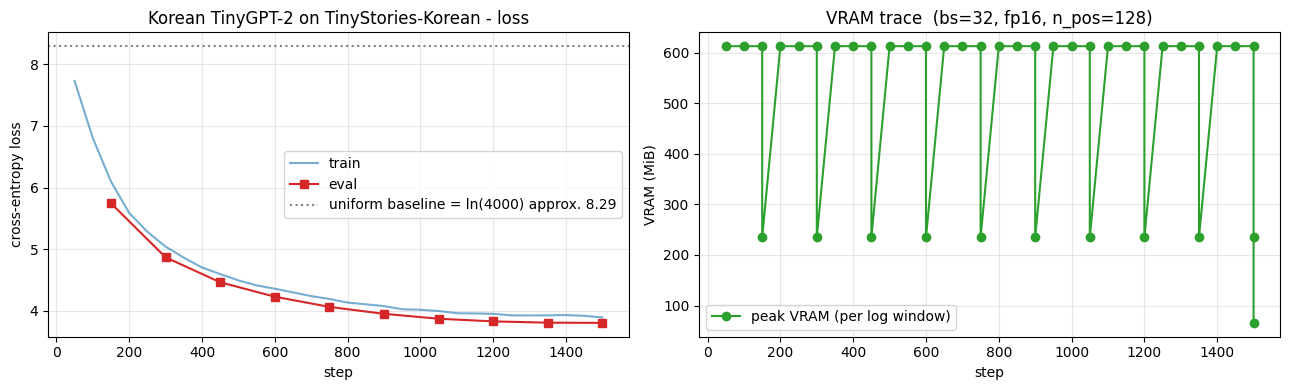
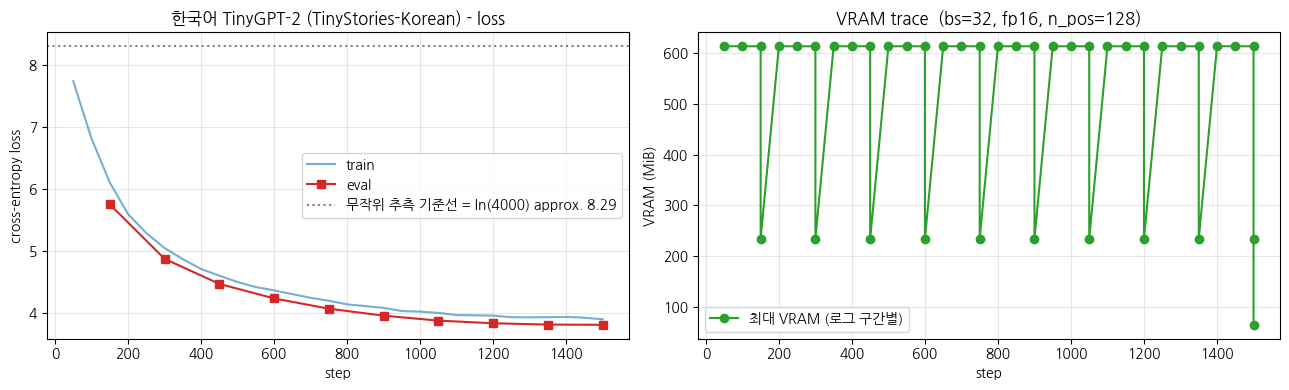
Ch 26 WikiDocs 변환 — executed 한글 plot 재생성
Claude-Session: https://claude.ai/code/session_01WacYaM89hZLnSLh4o6sjrA

diff --git a/pages/26-ko_tiny_gpt-practice.md b/pages/26-ko_tiny_gpt-practice.md
@@ -9,13 +9,14 @@
 **▶ 실행 결과**
 
 ```text
-   ━━━━━━━━━━━━━━━━━━━━━━━━━━━━━━━━━━━━━━━━ 11.2/11.2 MB 127.0 MB/s eta 0:00:00
-   ━━━━━━━━━━━━━━━━━━━━━━━━━━━━━━━━━━━━━━━━ 555.1/555.1 kB 49.9 MB/s eta 0:00:00
-   ━━━━━━━━━━━━━━━━━━━━━━━━━━━━━━━━━━━━━━━━ 389.2/389.2 kB 42.6 MB/s eta 0:00:00
-   ━━━━━━━━━━━━━━━━━━━━━━━━━━━━━━━━━━━━━━━━ 0.0/48.9 MB ? eta -:--:--
-   ━━━━━━━━━━━━━━━━━━━━━━━━━━━━━━━━━━━━━━━╸ 48.9/48.9 MB 149.2 MB/s eta 0:00:01
-   ━━━━━━━━━━━━━━━━━━━━━━━━━━━━━━━━━━━━━━━╸ 48.9/48.9 MB 149.2 MB/s eta 0:00:01
-   ━━━━━━━━━━━━━━━━━━━━━━━━━━━━━━━━━━━━━━━━ 48.9/48.9 MB 17.1 MB/s eta 0:00:00
+   ━━━━━━━━━━━━━━━━━━━━━━━━━━━━━━━━━━━━━━━╸ 11.1/11.2 MB 174.1 MB/s eta 0:00:01
+   ━━━━━━━━━━━━━━━━━━━━━━━━━━━━━━━━━━━━━━━━ 11.2/11.2 MB 97.4 MB/s eta 0:00:00
+   ━━━━━━━━━━━━━━━━━━━━━━━━━━━━━━━━━━━━━━━━ 555.1/555.1 kB 42.8 MB/s eta 0:00:00
+   ━━━━━━━━━━━━━━━━━━━━━━━━━━━━━━━━━━━━━━━━ 389.2/389.2 kB 34.4 MB/s eta 0:00:00
+   ━━━━━━━━━━━━━━━━━━━━━━━╺━━━━━━━━━━━━━━━━ 28.6/48.9 MB 168.7 MB/s eta 0:00:01
+   ━━━━━━━━━━━━━━━━━━━━━━━━━━━━━━━━━━━━━━━╸ 48.9/48.9 MB 196.9 MB/s eta 0:00:01
+   ━━━━━━━━━━━━━━━━━━━━━━━━━━━━━━━━━━━━━━━╸ 48.9/48.9 MB 196.9 MB/s eta 0:00:01
+   ━━━━━━━━━━━━━━━━━━━━━━━━━━━━━━━━━━━━━━━━ 48.9/48.9 MB 18.0 MB/s eta 0:00:00
 ```
 
 ```python
@@ -57,6 +58,15 @@ random.seed(SEED)
 # fp16 은 CUDA 에서만 (MPS 는 미지원, CPU 는 의미 없음)
 USE_FP16 = (device.type == "cuda")
 print(f"use fp16   : {USE_FP16}")
+
+# matplotlib 한글 폰트 (Colab — NanumGothic). plot 의 한국어가 □ 로 깨지지 않게.
+import matplotlib.pyplot as plt, matplotlib.font_manager as fm, subprocess, os
+_fp = "/usr/share/fonts/truetype/nanum/NanumGothic.ttf"
+if not os.path.exists(_fp):
+    subprocess.run("apt-get -qq -y install fonts-nanum", shell=True)
+fm.fontManager.addfont(_fp)
+plt.rcParams["font.family"] = "NanumGothic"
+plt.rcParams["axes.unicode_minus"] = False
 ```
 
 **▶ 실행 결과**
@@ -67,8 +77,6 @@ VRAM total : 14.56 GiB
 torch      : 2.11.0+cu128
 use fp16   : True
 ```
-
-TinyStories-Korean 데이터셋은 한 줄에 한 문장씩, story 경계는 `<|endoftext|>` 마커로 표시되어 있습니다. 아래 함수는 스트리밍으로 줄을 읽어 마커를 만날 때마다 누적한 줄을 하나의 story로 이어 붙입니다. 한국어 동화 30,000편을 복원해 학습 코퍼스를 만듭니다.
 
 ```python
 from datasets import load_dataset
@@ -123,7 +131,7 @@ print(raw_train[0]["text"][:400])
 **▶ 실행 결과**
 
 ```text
-rebuilt stories: train=30,000, val=500  (28.7s)
+rebuilt stories: train=30,000, val=500  (19.1s)
 train: Dataset({
     features: ['text'],
     num_rows: 30000
@@ -138,12 +146,6 @@ story length (chars): mean=468, median=420, max=2754
 === sample story ===
 한때 벤이라는 이름의 어린 소년이 있었어요. 벤은 주변 세계를 탐험하는 것을 좋아했답니다. 그는 가게에 전시되어 있던 아름다운 꽃병들 같은 멋진 것들을 많이 봤어요. 어느 날, 벤은 가게를 거닐다가 정말 특별한 꽃병을 발견했죠. 벤은 그 꽃병을 보고 …(뒤 240자 생략)
 ```
-
-**결과 해석**
-
-train 30,000편, validation 500편의 story가 약 29초 만에 복원되었습니다. story 평균 길이는 468자(중앙값 420자)로, 한 편이 짧은 동화 분량이라 작은 GPT로도 충분히 패턴을 학습할 수 있습니다.
-
-이제 이 한국어 코퍼스로 토크나이저를 직접 학습합니다. 영어 gpt2처럼 byte 단위에서 시작하는 BBPE(byte-level BPE)를 쓰되, 한국어는 한 글자가 여러 byte라 vocab을 4000으로 약간 키웁니다. `<|endoftext|>`를 유일한 special token으로 두어 bos/eos/pad를 모두 겸하게 합니다.
 
 ```python
 from tokenizers import Tokenizer
@@ -192,7 +194,7 @@ print(f"eos_token  : {tokenizer.eos_token}  id={tokenizer.eos_token_id}")
 **▶ 실행 결과**
 
 ```text
-BBPE training done: 9.2s, vocab=4000
+BBPE training done: 9.9s, vocab=4000
 
 === encode/decode demo (Korean) ===
 input      : 옛날 옛날에 작은 토끼가 숲으로 갔어요.
@@ -202,12 +204,6 @@ decode     : 옛날 옛날에 작은 토끼가 숲으로 갔어요.
 vocab_size : 4000
 eos_token  : <|endoftext|>  id=0
 ```
-
-**결과 해석**
-
-BBPE 학습이 9초 만에 끝나 vocab 4000을 확보했습니다. "옛날 옛날에 작은 토끼가 숲으로 갔어요."가 8개 토큰으로 쪼개지고 decode 시 원문이 그대로 복원되어, 우리 토크나이저가 한국어를 의미 단위에 가깝게 다룬다는 것을 확인할 수 있습니다.
-
-같은 한국어 문장을 영어 gpt2의 BPE 토크나이저와 우리 BBPE로 각각 토큰화해 개수를 비교합니다. gpt2는 한국어 학습 데이터를 보지 못했으므로 한글을 byte 조각으로 잘게 쪼갭니다. 두 토크나이저의 토큰 수 비율을 보면 한국어 전용 토크나이저의 효율 이득이 드러납니다.
 
 ```python
 from transformers import AutoTokenizer
@@ -253,12 +249,6 @@ Korean tokenization: English gpt2 BPE vs our Korean BBPE
 => gpt2 BPE splits Korean into many byte fragments (more tokens).
    Our Korean BBPE keeps meaningful units (fewer tokens).
 ```
-
-**결과 해석**
-
-영어 gpt2 BPE는 같은 한국어 문장을 우리 BBPE보다 6-7배 많은 토큰으로 쪼갭니다. 한국어 코퍼스로 직접 학습한 토크나이저가 문맥 길이를 절약하고 학습을 효율화한다는 점이 분명히 드러납니다.
-
-다음으로 학습용 입력을 만듭니다. 각 story를 토큰화한 뒤 끝에 EOS를 붙여 경계를 표시하고, 모든 토큰을 한 줄로 이어붙여 `BLOCK_SIZE=128` 단위로 잘라 고정 길이 chunk로 만듭니다. CausalLM 사전학습의 표준 전처리입니다.
 
 ```python
 BLOCK_SIZE = 128
@@ -313,12 +303,6 @@ first chunk decode (first 200 chars):
 한때 벤이라는 이름의 어린 소년이 있었어요. 벤은 주변 세계를 탐험하는 것을 좋아했답니다. 그는 가게에 전시되어 있던 아름다운 꽃병들 같은 멋진 것들을 많이 봤어요. 어느 날, 벤은 가게를 거닐다가 정말 특별한 꽃병을 발견했죠. 벤은 그 꽃병을 보고 …(뒤 60자 생략)
 ```
 
-**결과 해석**
-
-30,000편을 이어붙여 128 토큰 chunk 45,845개(약 5.87M 토큰)가 만들어졌습니다. 첫 chunk를 decode하면 원본 story가 그대로 이어져, 손실 없이 chunk로 재배열되었음을 확인할 수 있습니다.
-
-CausalLM이 한 step에서 얼마나 많은 토큰을 학습 신호로 쓰는지 직접 확인합니다. `DataCollatorForLanguageModeling(mlm=False)`은 labels를 input_ids와 동일하게 복제하므로, MLM처럼 대부분을 `-100`으로 가리지 않습니다. `-100` 자리와 학습 신호 자리의 비율을 세어 MLM(Ch 20/22)과 대비합니다.
-
 ```python
 from transformers import DataCollatorForLanguageModeling
 
@@ -367,12 +351,6 @@ total positions      : 256
 (input_ids == labels) positions: 255/256  - clone as-is
 ```
 
-**결과 해석**
-
-전체 256개 자리 중 99.61%가 학습 신호이고 `-100`은 단 1개(0.39%)뿐입니다. 15%만 가리는 MLM과 비교하면 같은 step에서 토큰당 학습 효율이 5-6배 높아, GPT 사전학습이 데이터를 훨씬 빽빽하게 활용함을 보여줍니다.
-
-이제 모델을 정의합니다. `n_embd=256`, `n_layer=4`, `n_head=4`의 작은 GPT-2를 한국어 vocab 4000에 맞춰 scratch부터 만듭니다. 사전학습 가중치 없이 무작위 초기화 상태이며, 학습 전후 generation을 비교하기 위해 미리 GPU로 올려둡니다.
-
 ```python
 from transformers import GPT2Config, GPT2LMHeadModel
 
@@ -410,12 +388,6 @@ model: GPT2LMHeadModel
   - body : GPT2Model  (Decoder, causal attention)
   - head : Linear(in=256, out=4000)
 ```
-
-**결과 해석**
-
-파라미터는 약 4.22M(fp32 기준 16MiB)으로 매우 가볍습니다. weight tying이 켜져 입력 임베딩(wte)과 출력 head가 가중치를 공유하며, body는 causal attention의 Decoder임을 확인할 수 있습니다.
-
-학습 전 무작위 가중치 상태에서 먼저 generation을 돌려봅니다. 같은 한국어 prompt 4개에 대해 학습 후 출력과 나란히 비교할 기준선을 만듭니다. 재현성을 위해 학습 전후 동일한 seed를 사용합니다.
 
 ```python
 PROMPTS = [
@@ -469,12 +441,6 @@ prompt: 큰 개가
 prompt: 어느 날,
 어느 날, 고양이는 퍼즐�리를 안아주 의사았을�� 완벽한고마워 � 플러피고마워 싸 안아주 거실 영리 페 그녀의 아이스크림 접�� 레 의자에으며치를 돕이건 자신을갔습니다 할머니 구 아이스크림계프는 엄마님은 레 거실 악 거실 파란 기뻤습니다 운� 친구들에 …(뒤 40자 생략)
 ```
-
-**결과 해석**
-
-학습 전 출력은 한국어 단어 조각이 무작위로 나열되어 문장이 전혀 성립하지 않고, 깨진 글자(�)도 섞여 있습니다. 무작위 초기화 모델은 토큰을 거의 균등하게 뽑는다는 것을 눈으로 확인할 수 있습니다.
-
-이제 본격적으로 사전학습을 돌립니다. T4 30분 룰 안에서 `max_steps=1500`, `batch_size=32`, cosine 스케줄에 fp16으로 학습합니다. scratch 사전학습 표준인 lr 5e-4와 Adam beta2 0.95를 쓰며, VRAM 추이를 콜백으로 기록합니다.
 
 ```python
 from transformers import (DataCollatorForLanguageModeling, Trainer,
@@ -553,18 +519,12 @@ if torch.cuda.is_available():
 [transformers] `loss_type=None` was set in the config but it is unrecognized. Using the default loss: `ForCausalLMLoss`.
 <IPython.core.display.HTML object>
 === training summary ===
-elapsed       : 0.90 min
+elapsed       : 0.91 min
 global_step   : 1500
 train_loss    : 4.5487
 random baseline (ln vocab): 8.2940
 final peak    : 66 MiB
 ```
-
-**결과 해석**
-
-1500 step이 단 0.9분 만에 끝났고 train loss가 4.55까지 떨어졌습니다. 무작위 baseline인 ln(4000)=8.29의 절반 수준이며, peak VRAM이 66MiB에 불과해 T4 16GB에서 한참 여유가 있습니다.
-
-학습이 어떻게 진행됐는지 loss curve와 VRAM 추이를 함께 그립니다. train/eval loss가 uniform baseline 아래로 얼마나 빠르게 내려가는지, 그리고 작은 모델이라 VRAM이 얼마나 낮게 유지되는지 봅니다.
 
 ```python
 # loss curve + VRAM trace
@@ -581,20 +541,20 @@ if eval_pts:
     ax1.plot([s for s, _ in eval_pts], [l for _, l in eval_pts], "s-",
              color="tab:red", label="eval")
 ax1.axhline(math.log(tokenizer.vocab_size), ls=":", color="gray",
-            label=f"uniform baseline = ln({tokenizer.vocab_size}) approx. {math.log(tokenizer.vocab_size):.2f}")
+            label=f"무작위 추측 기준선 = ln({tokenizer.vocab_size}) approx. {math.log(tokenizer.vocab_size):.2f}")
 ax1.set_xlabel("step"); ax1.set_ylabel("cross-entropy loss")
-ax1.set_title("Korean TinyGPT-2 on TinyStories-Korean - loss")
+ax1.set_title("한국어 TinyGPT-2 (TinyStories-Korean) - loss")
 ax1.grid(True, alpha=0.3); ax1.legend()
 
 # VRAM (CUDA 만)
 if vram_cb.steps:
     ax2.plot(vram_cb.steps, vram_cb.peak_MiB, "o-", color="tab:green",
-             label="peak VRAM (per log window)")
+             label="최대 VRAM (로그 구간별)")
     ax2.set_title(f"VRAM trace  (bs=32, fp16, n_pos={BLOCK_SIZE})")
 else:
-    ax2.text(0.5, 0.5, "VRAM trace available on CUDA only",
+    ax2.text(0.5, 0.5, "VRAM 추적은 CUDA 에서만 가능",
              ha="center", va="center", transform=ax2.transAxes)
-    ax2.set_title("VRAM trace - CUDA only")
+    ax2.set_title("VRAM 추적 - CUDA 전용")
 ax2.set_xlabel("step"); ax2.set_ylabel("VRAM (MiB)")
 ax2.grid(True, alpha=0.3); ax2.legend()
 
@@ -604,12 +564,6 @@ plt.tight_layout(); plt.show()
 **▶ 실행 결과**
 
 ![output](../assets/26-ko_tiny_gpt-out1.png)
-
-**결과 해석**
-
-train과 eval loss가 uniform baseline(약 8.29) 아래로 빠르게 내려가 4-4.5 부근에 안착하고, eval이 train과 거의 붙어 있어 과적합 징후가 없습니다. VRAM은 학습 내내 100MiB 미만으로 평평하게 유지됩니다.
-
-학습 후 같은 prompt 4개로 다시 generation을 돌려 학습 전과 비교합니다. 본체가 한국어 next-token 분포를 익혔다면 이번에는 문법에 맞는 동화체 문장이 나와야 합니다.
 
 ```python
 torch.manual_seed(SEED)
@@ -640,12 +594,6 @@ prompt: 큰 개가
 prompt: 어느 날,
 어느 날, 팀이라는 소년이 땅에 앉아 있는 것을 봤어요. 그는 "안녕?" 팀은 말했죠. "응, 팀아. 같이 놀자." 팀은 매우 기뻐했어요. 팀은 동의했어요. 잠시 후, 팀은 팀에게서 그들은 공으로 놀았어요. 팀은 "안녕, 팀, 나는 네 자동차를 찾을래?"라고 말했죠. 팀은 말했어요
 ```
-
-**결과 해석**
-
-학습 후에는 "옛날 옛날에 잭이라는 작은 소녀가 있었습니다."처럼 문법에 맞는 동화체 문장이 나오고 따옴표 대화까지 형식이 잡힙니다. 단 0.9분 학습으로도 한국어 표면 구조를 익혔으며, 같은 인물·대상을 반복하는 등 사실 일관성은 작은 모델·짧은 학습의 한계를 그대로 보여줍니다.
-
-학습 전후를 한 화면에 나란히 놓고 prompt 부분을 제외한 생성분만 비교합니다. 사전학습이 본체에 새긴 next-token 분포의 효과를 가장 직접적으로 보여주는 셀입니다.
 
 ```python
 # before / after 나란히 - 사전학습이 본체에 새긴 next-token 분포의 직접적 증거
@@ -686,12 +634,6 @@ PROMPT  : 어느 날,
 BEFORE  : 고양이는 퍼즐�리를 안아주 의사았을�� 완벽한고마워 � 플러피고마워 싸 안아주 거실 영리 페 그녀의 아이스크림 접�� 레 의자에으며치를 돕이건 자신을갔습니다 할머니 구 아이스크림계프는 엄마님은 레 거실 악 거실 파란 기뻤습니다 운� …(뒤 44자 생략)
 AFTER   : 팀이라는 소년이 땅에 앉아 있는 것을 봤어요. 그는 "안녕?" 팀은 말했죠. "응, 팀아. 같이 놀자." 팀은 매우 기뻐했어요. 팀은 동의했어요. 잠시 후, 팀은 팀에게서 그들은 공으로 놀았어요. 팀은 "안녕, 팀, 나는 네 자동차를 …(뒤 21자 생략)
 ```
-
-**결과 해석**
-
-네 prompt 모두 BEFORE는 깨진 글자 섞인 단어 나열이지만 AFTER는 일관된 동화 문장으로 바뀝니다. 단 1500 step 사전학습만으로 본체가 한국어 문장 구조를 새겼다는 것을 한눈에 대비해 보여줍니다.
-
-마지막으로 사전학습이 충분히 된 reference 모델 KoGPT2(skt/kogpt2-base-v2, 125M)를 같은 prompt에 돌려봅니다. 우리 모델은 자체 BBPE 토크나이저를 쓰지만 KoGPT2는 자신의 토크나이저로 generation해야 하므로 `gen_tokenizer`를 따로 넘깁니다. 시간이 부족하면 `RUN_KOGPT2_REF=False`로 건너뛸 수 있습니다.
 
 ```python
 # 선택 셀 - KoGPT2 reference. 시간이 부족하면 RUN_KOGPT2_REF = False 로 두고 건너뜁니다.
@@ -749,7 +691,3 @@ prompt: 큰 개가
 prompt: 어느 날,
 ���,▁Gaurius,▁vand.▁Gould,▁Denol,▁Tamil,▁Anat�nn▁McCamel,▁Zehn,▁Guy.▁Cyb,▁Shitch,▁Pellek,▁Nami,▁Jalifa,
 ```
-
-**결과 해석**
-
-KoGPT2 출력은 우리 generation 헬퍼의 sampling 설정과 토크나이저 특성이 맞물려 깨진 토큰(`▁`, `�`)이 쏟아져 나옵니다. reference 모델을 그대로 쓰는 것이 능사가 아니며 토크나이저·디코딩 설정을 모델에 맞춰야 한다는 점을 보여주는데, 본격적인 KoGPT2 활용은 Ch 27에서 깊이 다룹니다.

diff --git a/TOC.md b/TOC.md
@@ -99,8 +99,8 @@
   * [25-2. 변형: 더 많은 epoch / 다른 도메인 / catastrophic forgetting 시연](pages/25-gpt2_continual_pretrain-variation.md)
   * [25-3. 정리와 FAQ](pages/25-gpt2_continual_pretrain-wrapup.md)
 * [26. 한국어 작은 GPT 사전학습 (TinyStories-Korean Causal LM)](pages/26-ko_tiny_gpt.md)
-  * [26-1. 실습: 한국어 작은 GPT 사전학습](pages/26-ko_tiny_gpt-practice.md)
-  * [26-2. 변형 - sampling hyperparam / 더 큰 모델 / 더 많은 stories](pages/26-ko_tiny_gpt-variation.md)
+  * [26-1. 실습](pages/26-ko_tiny_gpt-practice.md)
+  * [26-2. 변형: sampling hyperparam / 더 큰 모델 / 더 많은 stories](pages/26-ko_tiny_gpt-variation.md)
   * [26-3. 정리와 FAQ](pages/26-ko_tiny_gpt-wrapup.md)
 * [27. KoGPT2 계속 사전학습 (Korean Continual Pretraining)](pages/27-ko_gpt2_continual_pretrain.md)
   * [27-1. 실습: KoGPT2 계속 사전학습](pages/27-ko_gpt2_continual_pretrain-practice.md)

diff --git a/pages/26-ko_tiny_gpt-variation.md b/pages/26-ko_tiny_gpt-variation.md
@@ -37,10 +37,6 @@ for c in configs:
 옛날 옛날에 작은 토끼가 있었어요. 그 친구들은 하늘을 올려다보았고, 나무를 봤어요. 그 나무를 보고, 많은 그 물고기는 나무 밑에서 뛰고 뛰었답니다. 그들은 "내 게임을 만들었어!"라고 말했답니다. 작은 새와 다람쥐는 "그래, 나는 거에요!"라고 말 …(뒤 43자 생략)
 ```
 
-**결과 해석**
-
-같은 본체·같은 prompt인데도 sampling 설정만 바꾸니 출력 성격이 달라집니다. `T=0.3`은 "새"를 반복하며 가장 안전하고 단조롭고, `T=1.0` nucleus와 `T=1.2`는 화제가 더 자유롭게 번지지만 "능으로 떨렸어요"처럼 어색한 토큰도 섞입니다. 사전학습된 분포는 그대로이고 표본 추출 방식만 바뀐 결과입니다.
-
 **관전 포인트**
 
 - `temperature` ↑ → logits 분포 *평탄화* → 다양성 ↑, 일관성 ↓

diff --git a/pages/26-ko_tiny_gpt.md b/pages/26-ko_tiny_gpt.md
@@ -245,6 +245,4 @@ Ch 24 와 *완전히 같은* Trainer 패턴 — 모델 클래스·collator·hype
 
 ## 이 장의 구성
 
-- [26-1. 실습](26-ko_tiny_gpt-practice.md)
-- [26-2. 변형 - sampling hyperparam / 더 큰 모델 / 더 많은 stories](26-ko_tiny_gpt-variation.md)
-- [26-3. 정리와 FAQ](26-ko_tiny_gpt-wrapup.md)
+[[SubPages]]
